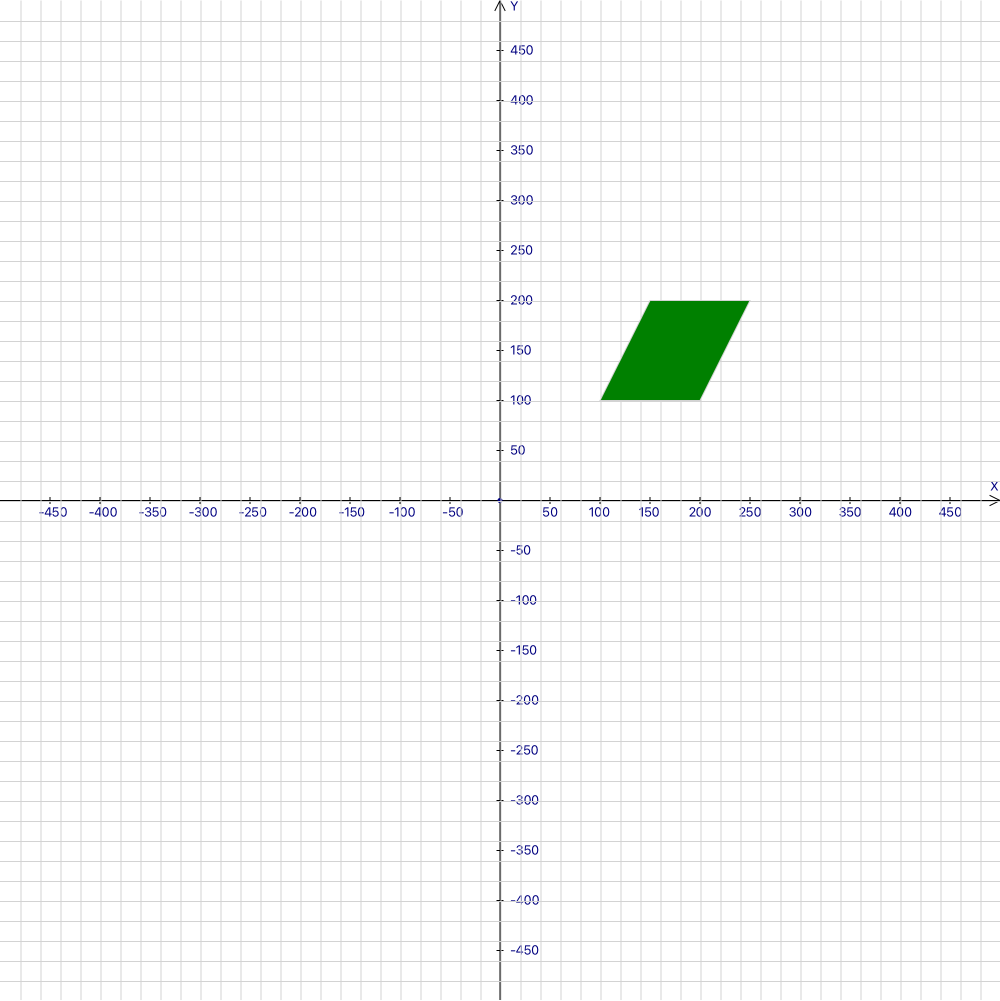
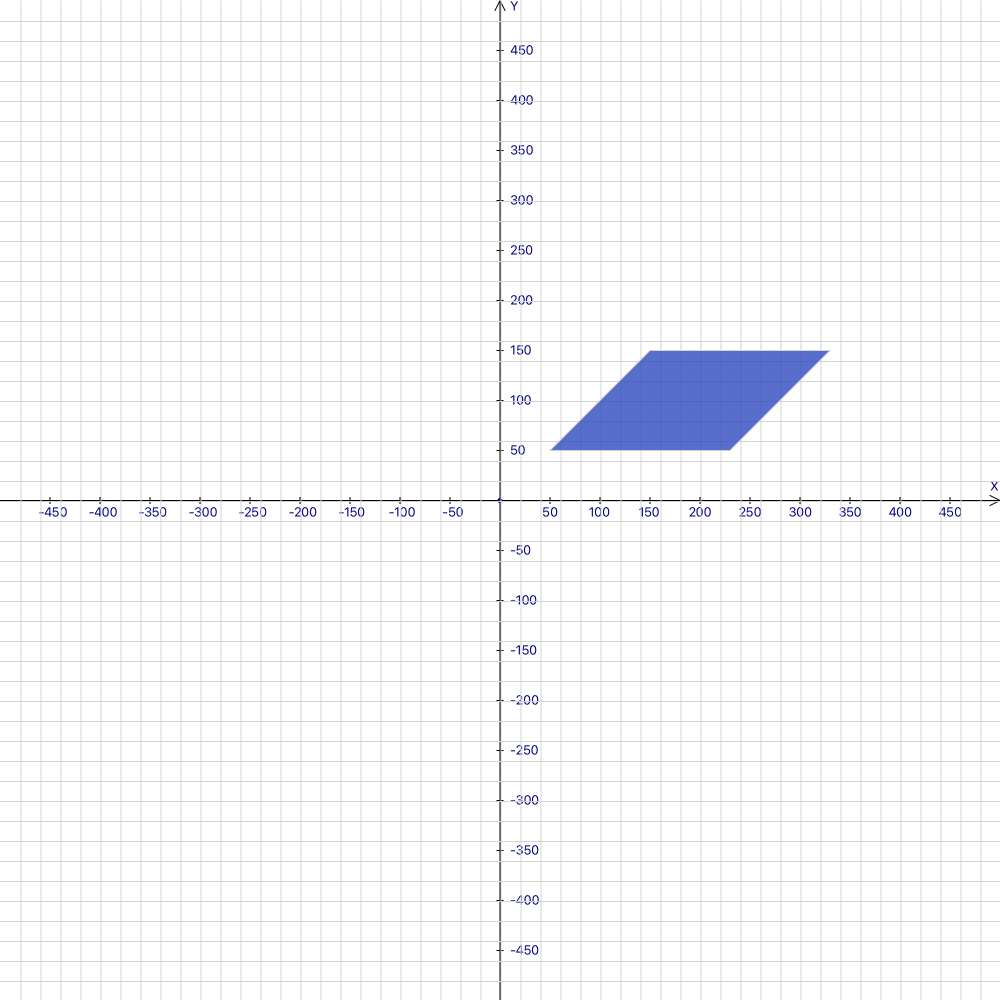
add fixes

Changed region(s): [[0.558, 0.2787, 0.837, 0.4645]]

diff --git a/src/main/java/org/study/labs/cg/computergraphics/ParallelogramDrawer.java b/src/main/java/org/study/labs/cg/computergraphics/ParallelogramDrawer.java
@@ -32,10 +32,11 @@ public class ParallelogramDrawer extends Application {
     private Color selectedColor;
 
     private TextField xField1, yField1, xField2, yField2, xField3, yField3, xField4, yField4;
-    private double x1Field1 = 100, y1Field1 = 100;
-    private double x1Field2 = 200, y1Field2 = 100;
-    private double x1Field3 = 250, y1Field3 = 200;
-    private double x1Field4 = 150, y1Field4 = 200;
+    private double x1Field1 = 50, y1Field1 = 50;
+    private double x1Field2 = 150, y1Field2 = 150;
+    private double x1Field3 = 330, y1Field3 = 150;
+    private double x1Field4 = 230, y1Field4 = 50;
+
     private boolean isImageSaved = false;
     private Button drawButton;
     private Canvas canvas;
@@ -175,7 +176,7 @@ public class ParallelogramDrawer extends Application {
         y4Field.setPromptText("Y4");
         y4Field.setText(String.valueOf(y1Field4)); // Значення за замовчуванням
 
-        ColorPicker fillColorPicker = new ColorPicker(Color.GREEN);
+        ColorPicker fillColorPicker = new ColorPicker(Color.hsb(228, 0.76, 0.75, 0.80));
 
         dialog.getDialogPane().setContent(new VBox(10,
                 new HBox(5, new Label("X1(Max - 350):"), x1Field, new Label("Y1(Max - 250):"), y1Field),
@@ -184,7 +185,6 @@ public class ParallelogramDrawer extends Application {
                 new HBox(5, new Label("X4(Max - 350):"), x4Field, new Label("Y4(Max - 250):"), y4Field),
                 new Label("Fill color:"), fillColorPicker
         ));
-
 
 
         dialog.setResultConverter(dialogButton -> {
@@ -209,7 +209,7 @@ public class ParallelogramDrawer extends Application {
                     if ((x1 > 450 || x1 < -450) || (x2 > 450 || x2 < -450)
                             || (x3 > 450 || x3 < -450) || x4 > 450 || x4 < -450) {
                         showAlert("x values must be less than or equal to +/- 450");
-                    } else if  ((y1 > 450 || y1 < -200) || (y2 > 450 || y2 < -200)
+                    } else if ((y1 > 450 || y1 < -200) || (y2 > 450 || y2 < -200)
                             || (y3 > 450 || y3 < -200) || y4 > 450 || y4 < -200) {
                         showAlert("y values must be less than or equal to 450, and negative to -200");
                     } else {
@@ -253,12 +253,13 @@ public class ParallelogramDrawer extends Application {
         if (!isImageSaved) {
             saveInitialParallelogramToFile("initial_parallelogram.png");
         }
-     }
+    }
 
     //Переведення значення пікселів на площині в значення координат - X
     private double convertX(double x) {
         return WIDTH / 2 + x;
     }
+
     //Переведення значення пікселів на площині в значення координат - Y
     private double convertY(double y) {
         return HEIGHT / 2 - y;
@@ -278,9 +279,9 @@ public class ParallelogramDrawer extends Application {
         functionMenu.getItems().add(expandItem);
         functionMenu.getItems().add(reduceItem);
         functionMenu.getItems().add(drawParallelogramItem);
-        functionMenu.getItems().add(cleanCoordinateSystemItem);
         functionMenu.getItems().add(moveParallelogramItem);
         functionMenu.getItems().add(stopParallelogramItem);
+        functionMenu.getItems().add(cleanCoordinateSystemItem);
 
         stopParallelogramItem.setOnAction(event -> stopMoving());
         expandItem.setOnAction(actionEvent -> expandCoordinateSystem(gc));
@@ -347,7 +348,6 @@ public class ParallelogramDrawer extends Application {
 
     //Допоміжні змінні
     private double totalRotation = 0.0;
-    private StringBuilder matrixResult = new StringBuilder();
     private boolean isMatrixSaved = false;
 
     //Функція що використовує афінні перетворення для руху паралелограма
@@ -504,6 +504,8 @@ public class ParallelogramDrawer extends Application {
         File file = new File(fileName);
         try {
             ImageIO.write(SwingFXUtils.fromFXImage(image, null), "png", file);
+            isImageSaved = true;
+
         } catch (IOException e) {
             throw new RuntimeException("Can't save parallelogram to file", e);
         }
